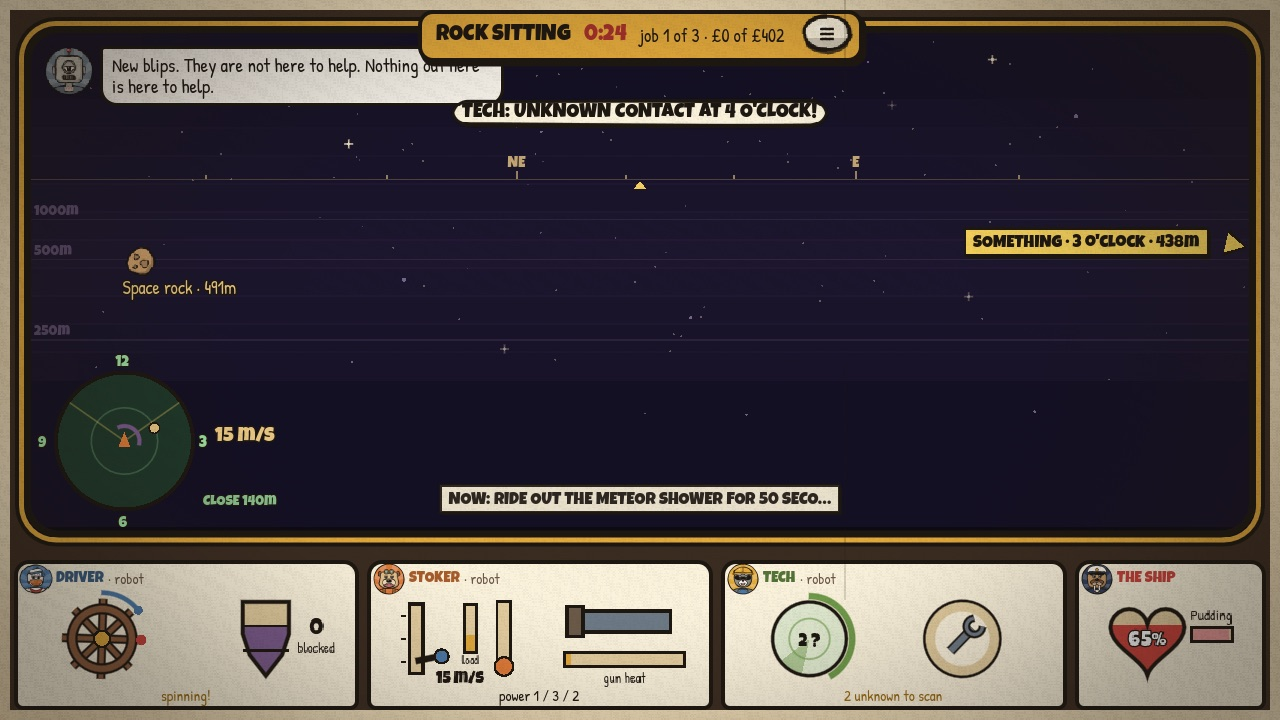
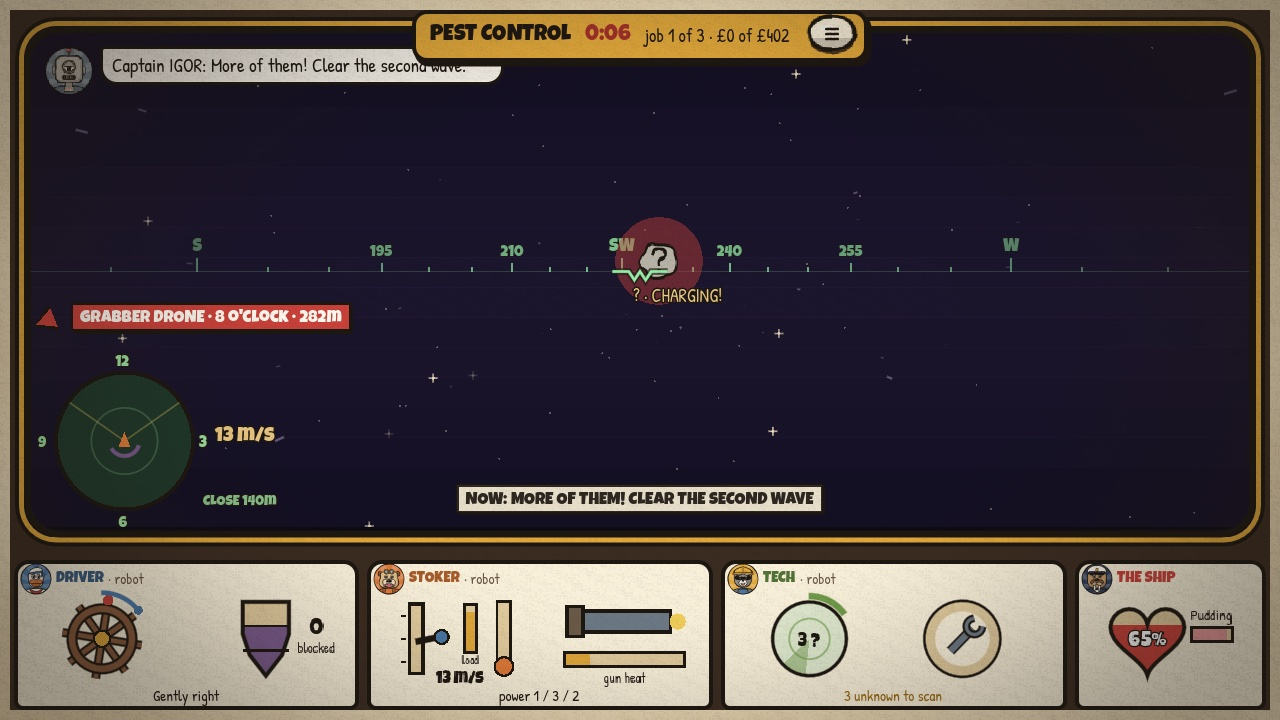
Captain's window at eye level, with a compass strip, nose marker and hollow ring gates
The window now looks straight out: the nose is the middle of the glass, things
float at their own heights and grow out of the distance, and dust streaks out
from the centre. The uneven range lines are gone; a HUD compass strip with 5°
ticks runs along the horizon. Rings are drawn as hollow hoops with chasing
lights instead of floats. README and Captain screenshots updated.

diff --git a/README.md b/README.md
@@ -37,8 +37,9 @@ Built with **Godot 4.7** (GDScript only, Compatibility renderer).
 
 The fun lives in the gap between two kinds of knowledge:
 
-- **The Captain** has no controls at all. They look out of the **bridge window**: about 110 degrees wide and
-  1.3 km deep, but **nothing to the sides or behind** (bar a small close-range ring for things about to bump
+- **The Captain** has no controls at all. They look straight out of the **bridge window** at eye level: the
+  nose is the middle of the glass, far things grow out of the distance as you close in, and a compass strip runs
+  along the horizon. About 110 degrees wide and 1.3 km deep, but **nothing to the sides or behind** (bar a small close-range ring for things about to bump
   the hull). Under it, a console for each crew role showing who's at it and what their instruments say, and
   **forecasts** such as *"Reactor overload in 5s"*.
 - **The Tech's radar sees all round, and further.** When something is sneaking up behind, the Tech taps it and
